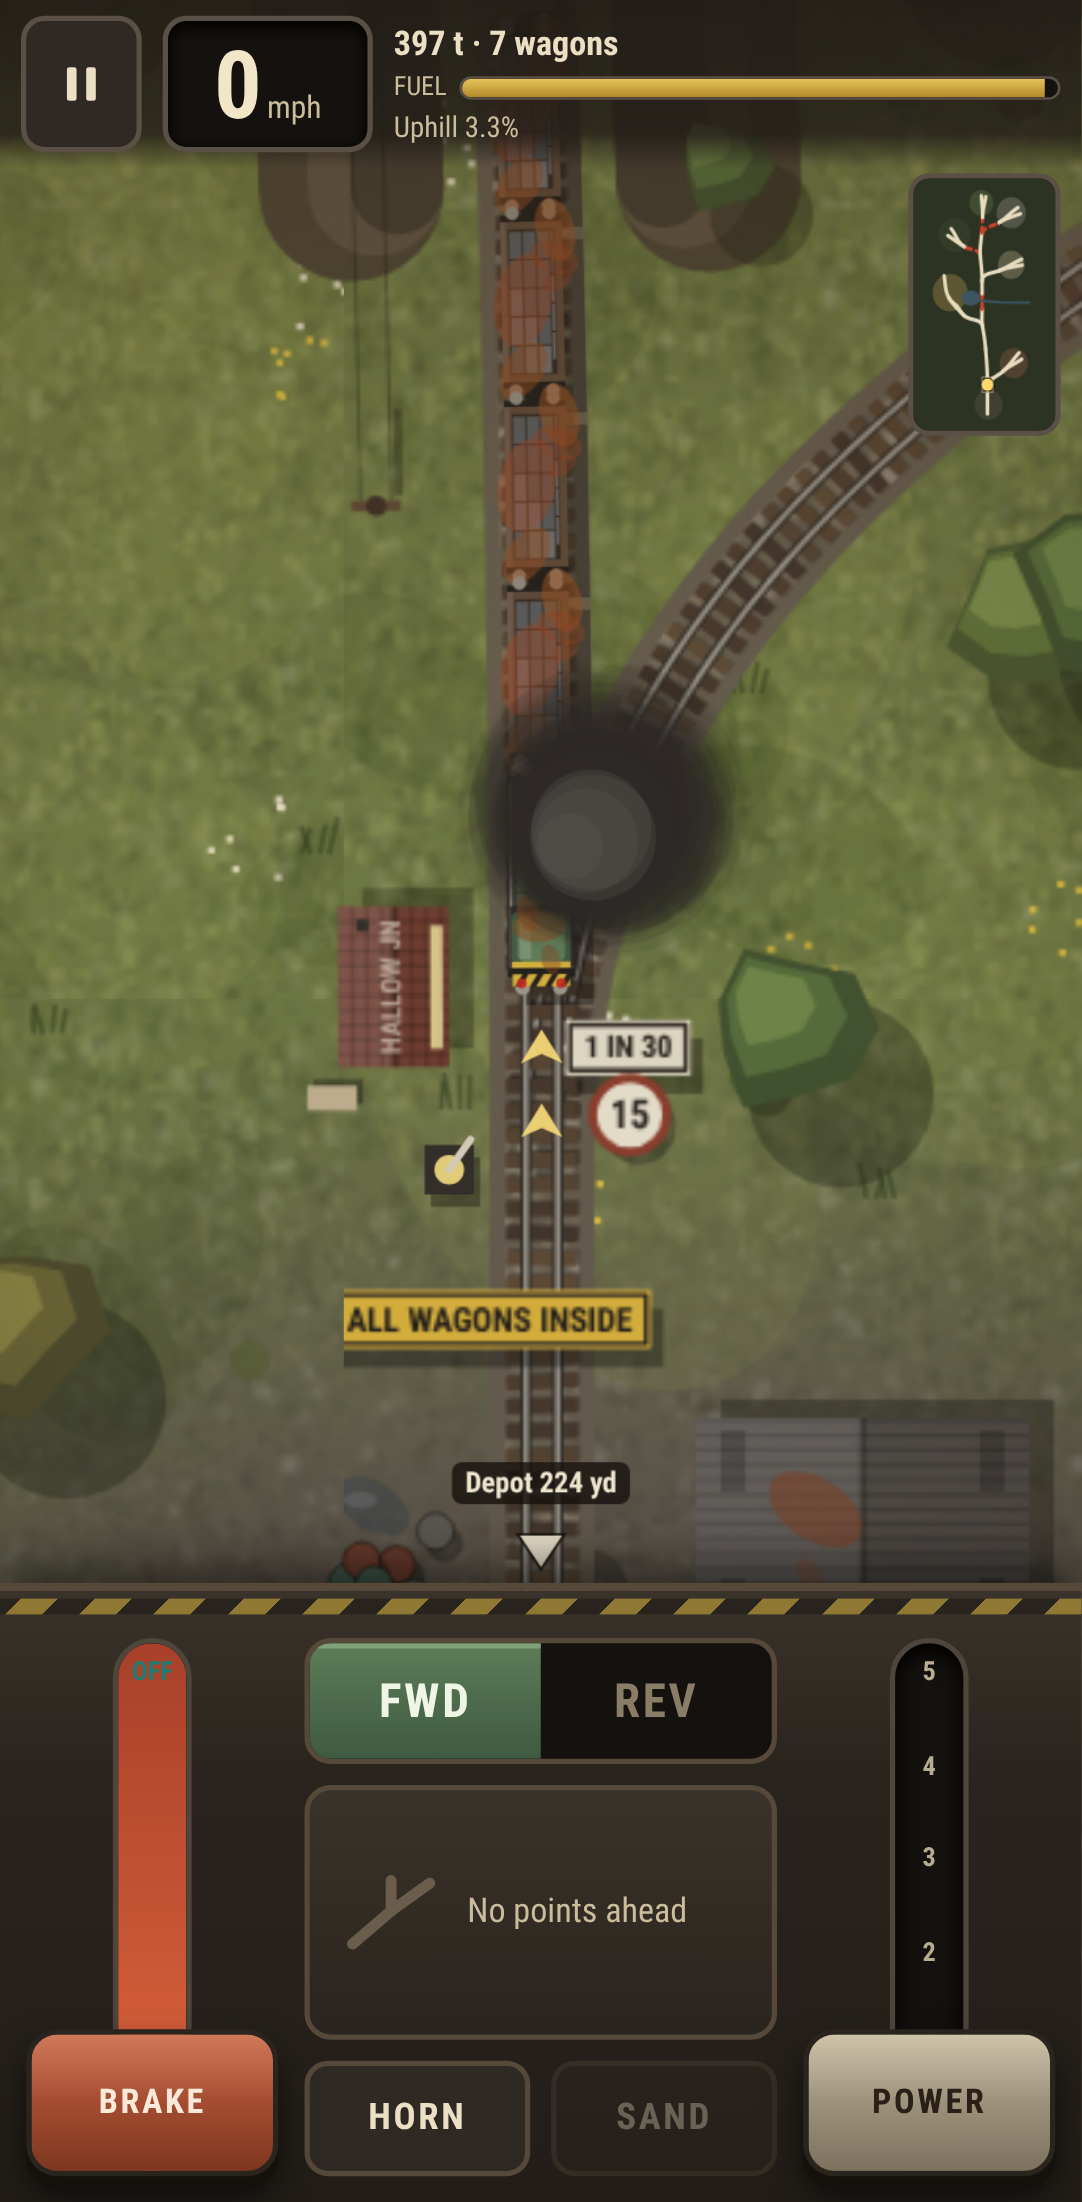
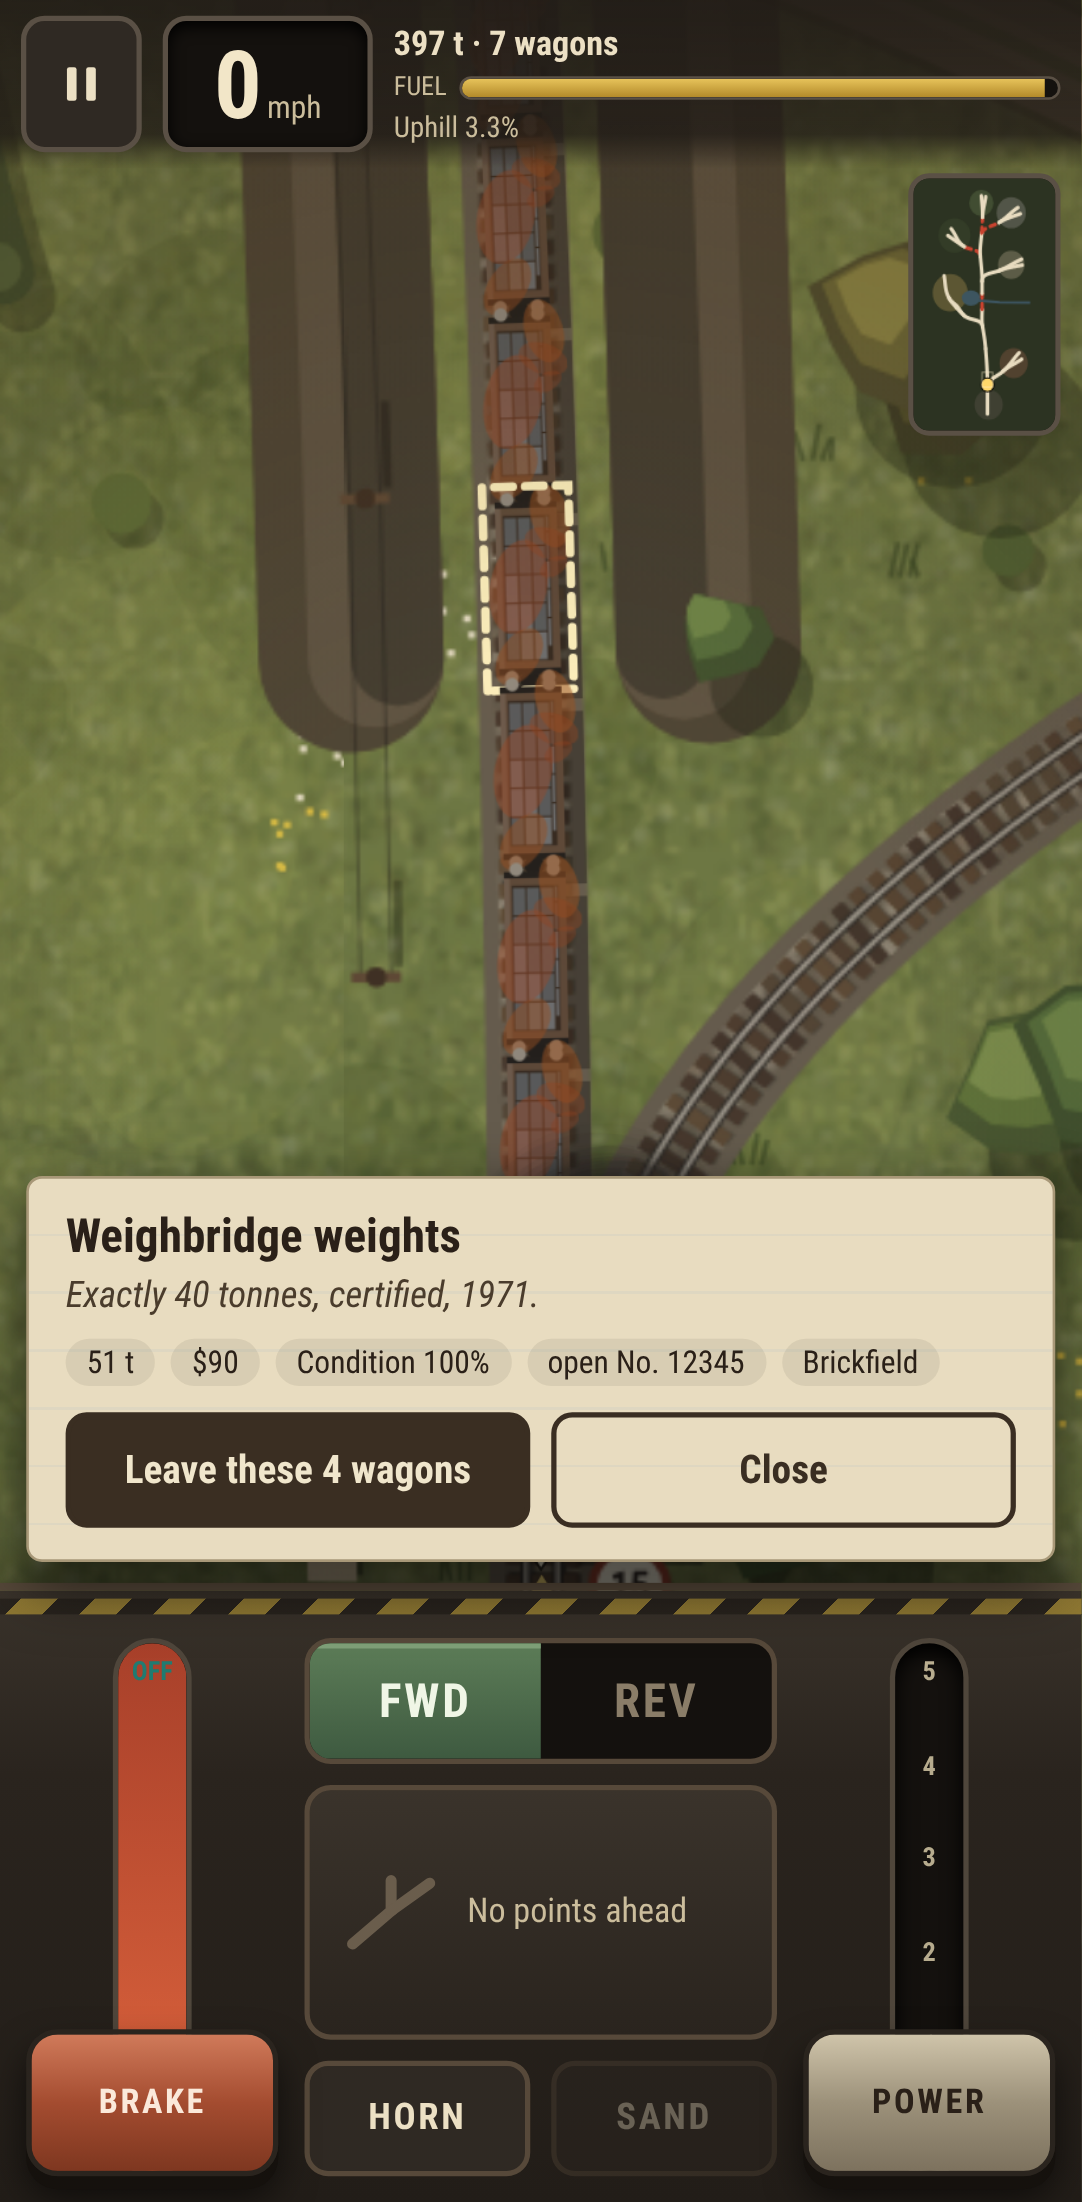
Fix barrier radio crash, resilient loop, tapel swipe, bank test redesign, art tweaks

diff --git a/js/game.js b/js/game.js
@@ -101,7 +101,7 @@ function events(){while(S.ev.length){const e=S.ev.shift();
     if(GAME.sel)showCard(GAME.sel,S.train);}
   else if(e.type==='bump'){AU.play('bump',e.hard);if(e.hard){buzz(80);RD.cam.shake=5;toast('Hit the buffers','bad');}else if(e.soft)buzz(15);}
   else if(e.type==='crash'){AU.play('crash');buzz([100,50,200]);RD.cam.shake=12;SV.D.stats.derails++;later(1.2,()=>endShift());}
-  else if(e.type==='bar'){if(!GAME.flags['bar'+e.key]){GAME.flags['bar'+e.key]=1;radio(DATA.RADIO.bar[e.key]);}}
+  else if(e.type==='bar'){if(e.key&&DATA.RADIO.bar[e.key]&&!GAME.flags['bar'+e.key]){GAME.flags['bar'+e.key]=1;radio(DATA.RADIO.bar[e.key]);}}
   else if(e.type==='radio'){const l=DATA.RADIO[e.k];radio(Array.isArray(l)?l[(Math.random()*l.length)|0]:l);}
   else if(e.type==='area'){const L=DATA.LOC[e.a];if(L&&e.a!=='depot'){banner(L.name.toUpperCase(),'');const k='area_'+e.a;if(!SV.D[k]){SV.D[k]=1;SV.save();later(1,()=>radio(DATA.RADIO.area[e.a]));}}
     if(e.a==='viaduct'&&!GAME.areaSeen.has('v')){GAME.areaSeen.add('v');}}
@@ -122,7 +122,7 @@ function hud(dt){hudT+=dt;if(hudT<.08)return;hudT=0;const v=Math.abs(S.train.v);
   if(S.loco.slip>.3)st='Wheelslip! Ease the power';sx.textContent=st;sx.classList.toggle('danger',!!(m&&m.danger)||S.loco.slip>.3);
   // points
   const nx=SIM.nextSwitch();GAME.nextSw=nx;const bp=$('bPoints');
-  if(nx){const n=TK.N[nx.id],sw=n.p.length===2?n.p:n.m;const label=routeLabel(nx.id,sw[n.sw],sw);$('pDist').textContent='Points in '+Math.round(nx.at*YD)+' yd';$('pSet').textContent='Set: '+label;
+  if(nx){const n=TK.N[nx.id],sw=n.p.length===2?n.p:n.m;const label=routeLabel(nx.id,sw[n.sw],sw);$('pDist').textContent='Points in '+Math.round(nx.at*YD)+' yd';$('pSet').textContent='Set: '+label;$('pSet').style.fontSize=label.length>9?'14px':'';
     const busy=TN.occupied(nx.id);bp.classList.toggle('busy',busy);bp.classList.toggle('live',nx.at<260&&!busy);const left=isLeft(nx.id,sw[n.sw],sw);$('pA').classList.toggle('on',left);$('pB').classList.toggle('on',!left);}
   else{$('pDist').textContent='No points ahead';$('pSet').textContent='';bp.classList.remove('live','busy');$('pA').classList.remove('on');$('pB').classList.remove('on');}
   $('bSand').textContent=S.spec.sand?('SAND '+S.sand):'SAND';$('bSand').classList.toggle('dis',!S.spec.sand||!S.sand);
@@ -164,13 +164,15 @@ function pause(){if(GAME.state!=='play')return;GAME.state='pause';AU.hornOff();U
 function resume(){if(GAME.state!=='pause')return;UI.show(null);GAME.state='play';last=performance.now();AU.resume();}
 GAME.pause=pause;GAME.resume=resume;
 // ---------- loop
-function loop(now){const dt=Math.min(.1,(now-last)/1000);last=now;
+function loop(now){requestAnimationFrame(loop);const dt=Math.min(.1,(now-last)/1000);last=now;
+  try{tick(dt,now);}catch(err){GAME.errors=(GAME.errors||0)+1;console.error(err);}}
+function tick(dt,now){
   if(GAME.state==='play'){acc+=dt;let n=0;while(acc>=1/60&&n<8){SIM.step(1/60);acc-=1/60;n++;}if(n===8)acc=0;events();notes();tutTick(dt);hud(dt);
     for(let i=timers.length-1;i>=0;i--){timers[i].t-=dt;if(timers[i].t<=0){const f=timers[i].f;timers.splice(i,1);f();}}
     if(radioT>0){radioT-=dt;if(radioT<=0)$('radio').classList.add('hidden');}
     RD.follow(dt);miniT+=dt;if(miniT>.12){miniT=0;mini();}}
   else if(GAME.state==='title'||GAME.state==='menu'){titleCam(dt);}
-  AU.update(dt);RD.frame(dt,now/1000);requestAnimationFrame(loop);}
+  AU.update(dt);RD.frame(dt,now/1000);}
 let tcT=0;function titleCam(dt){tcT+=dt;const c=RD.cam;const y=3300-((tcT*14)%2600);c.x+=(760+Math.sin(tcT*.05)*120-c.x)*Math.min(1,dt*.5);c.y=y;c.z=1.1;}
 // ---------- boot
 function boot(){SV.load();AU.setOn(!!SV.D.set.snd);AU.setVol(SV.D.set.vol);TK.build(MAP);ART.init();RD.init($('cv'));

diff --git a/js/art.js b/js/art.js
@@ -148,7 +148,7 @@ function drawItem(g,it){
  if(t==='cutting'){const ei=SIM.edgeBy(it.edge[0],it.edge[1]);for(const side of [-1,1]){g.lineCap='round';for(const [w,c] of [[60,'#4a4232'],[44,'#5b5140'],[30,'#3f3a2e']]){g.strokeStyle=c;g.lineWidth=w*.5;g.beginPath();for(let s=it.s0;s<=it.s1;s+=8){const p=along(it.edge[0],it.edge[1],s,side*(14+w*.25));s===it.s0?g.moveTo(p.x,p.y):g.lineTo(p.x,p.y);}g.stroke();}}return;}
  if(t==='hedge'){g.lineCap='round';g.strokeStyle='rgba(0,0,0,.25)';g.lineWidth=11;g.beginPath();it.pts.forEach((p,i)=>i?g.lineTo(p[0]+3,p[1]+4):g.moveTo(p[0]+3,p[1]+4));g.stroke();g.strokeStyle='#3c4a2a';g.lineWidth=10;g.beginPath();it.pts.forEach((p,i)=>i?g.lineTo(p[0],p[1]):g.moveTo(p[0],p[1]));g.stroke();
    g.fillStyle='#4f5f36';for(const p of it.pts){g.beginPath();g.arc(p[0]-1,p[1]-1,4,0,7);g.fill();}return;}
- if(t==='tree'){const r=it.r;g.fillStyle='rgba(20,25,15,.35)';g.beginPath();g.arc(it.x+r*.35+3,it.y+r*.45+4,r,0,7);g.fill();
+ if(t==='tree'){const r=it.r;g.fillStyle='rgba(20,25,15,.3)';g.beginPath();g.ellipse(it.x+r*.3+2,it.y+r*.35+3,r*.85,r*.75,0,0,7);g.fill();
    if(it.k){ // larch / conifer: star of needles
      g.fillStyle=it.c>.5?'#2d3b24':'#34442a';g.beginPath();for(let i=0;i<14;i++){const a=i/14*6.283,rr=i%2?r*.55:r;g.lineTo(it.x+Math.cos(a)*rr,it.y+Math.sin(a)*rr);}g.fill();
      g.fillStyle='#4d5e36';g.beginPath();for(let i=0;i<10;i++){const a=i/10*6.283+.3,rr=i%2?r*.3:r*.62;g.lineTo(it.x-1+Math.cos(a)*rr,it.y-1+Math.sin(a)*rr);}g.fill();

diff --git a/js/sim.js b/js/sim.js
@@ -85,7 +85,7 @@ function step(dt){
       else{if(imp>C.BUMP){S.bumped++;for(const c of carsOn())damage(c,(imp-C.BUMP)*.012*(1+c.fr*2),'buffers');emit('bump',{imp,hard:1});}
         else emit('bump',{imp,hard:0,soft:imp>2});
         T.v=-nv*.12;if(Math.abs(T.v)<1)T.v=0;
-        if(r.hit.type==='bar'){const e=TK.E[TN.end(T,nv>0?0:1).e];emit('bar',{key:e.barKey});}}
+        if(r.hit.type==='bar'){const e=TK.E[TN.end(T,nv>0?0:1).e];const b=e.bars.find(b=>!b.open);emit('bar',{key:b?b.key:''});}}
     }
   }
   const V=Math.abs(T.v);S.maxV=Math.max(S.maxV,V);

diff --git a/tests/test_mechanics.py b/tests/test_mechanics.py
@@ -49,30 +49,34 @@ async def main():
     await dr.set_brk(0);await dr.set_thr(5);await pg.wait_for_timeout(500)
     await tc.tapel('#bSand');await pg.wait_for_timeout(700)
     t.chk('SAND gives grip: no slip at notch 5 while sanding, one dose used',await E("SIM.S.sandT>0&&SIM.S.loco.slip<.3&&SIM.S.sand===2"),await E("[SIM.S.sandT,SIM.S.loco.slip,SIM.S.sand]"))
-    # ---- banks: a heavy train stalls on Kesh Bank, a light one climbs; leaving wagons recovers
-    await setup(pg,'J1','K1',30,(WT,7))
-    await dr.set_brk(0);await dr.set_thr(4);await pg.wait_for_timeout(16000)
-    x=await st(pg);
-    t.chk('7 x 51 t wagons stall on the 1-in-30 bank (stuck or rolling back)',x['V']<4 or x['v']>0,x['v'],x['e'])
+    # ---- banks: a heavy train stalls pulling up Kesh Bank, a light one climbs; leaving wagons recovers
+    # loco near the top of the bank facing downhill, 7 heavy wagons below it; reverse to haul them up
+    await setup(pg,'K1','J1',70,(WT,7))
+    K1="(()=>{const n=TK.N['K1'],L=SIM.S.loco;return Math.hypot(n.x-L.x,n.y-L.y)})()"
+    d0=await E(K1)
+    await dr.rev(-1);await dr.set_brk(0);await dr.set_thr(4);await pg.wait_for_timeout(14000)
+    x=await st(pg);d1=await E(K1)
+    t.chk('7 x 51 t wagons stall on the 1-in-30 bank (no headway uphill)',d1>d0-15,[d0,d1],x['v'])
     t.chk('Dot warns about the stall',await E("!!SIM.S.flags.stall||!!SIM.S.flags.roll"))
     await dr.stop();await dr.set_thr(0)
-    # leave 4 wagons: tap the 4th wagon from the loco, then the Leave button on its card
+    # leave the 4 lowest wagons: tap the 4th wagon from the loco, then Leave on its card
     q="(()=>{const T=SIM.S.train,li=T.veh.indexOf(SIM.S.loco);const v=T.veh[li-4];return RD.toScreen(v.x,v.y)})()"
-    pt=await E(q);top=await E("RD.view.top")
-    if pt[1]<top+60:  # off the top of the view: drag the map down to bring it into sight, as a player would
-      await tc.drag((200,top+60),(200,min(top+60+(top+160-pt[1]),560)),steps=12);await pg.wait_for_timeout(200);pt=await E(q)
+    pt=await E(q);top=await E("RD.view.top");bot=await E("innerHeight-RD.view.bot")
+    if pt[1]<top+60 or pt[1]>bot-60:  # out of the view: drag the map to bring it into sight, as a player would
+      cy=(top+bot)/2;await tc.drag((200,cy),(200,cy+(cy-pt[1])),steps=12);await pg.wait_for_timeout(200);pt=await E(q)
     await tc.tap(pt);await pg.wait_for_timeout(250)
-    t.chk('tapping a wagon opens its card',await pg.is_visible('#card') and await pg.is_visible('#cbLeave'),await pg.text_content('#cardName'))
+    t.chk('tapping a wagon opens its card',await pg.is_visible('#card') and await pg.is_visible('#cbLeave'),await pg.text_content('#cardName'),pt)
     await pg.screenshot(path=str(SHOTS/'wagon_card.png'))
     await tc.tapel('#cbLeave');await pg.wait_for_timeout(200)
     t.chk('Leave splits the train: 3 wagons stay coupled, 4 left on the bank',await E("SIM.carsOn().length")==3 and await E("TN.cons.some(c=>c!==SIM.S.train&&c.veh.length===4)"))
     await dr.set_brk(0);await dr.set_thr(4)
-    ok=False
+    ok=False;top_e=await E("SIM.edgeBy('K1','J2')")
     for i in range(240):
       x=await st(pg)
-      if x['e']==await E("SIM.edgeBy('K1','J2')"):ok=True;break
+      if x['e']==top_e:ok=True;break
       await pg.wait_for_timeout(250)
     t.chk('lighter train climbs the bank to the top',ok,x['e'],x['V'])
+    await dr.stop()
     # ---- coupling speed
     lot="[{loc:'brick',slot:['J1','DB',110],cars:[FIX.cargo('Chimney pots')]}]"
     await setup(pg,'DB','J1',30,None,lots=lot)

diff --git a/tests/util.py b/tests/util.py
@@ -40,7 +40,12 @@ class Touch:
     r=await s.pg.evaluate(f"(()=>{{const r=document.querySelector('{sel}').getBoundingClientRect();return [r.x+r.width/2,r.y+r.height/2,r.width,r.height]}})()")
     return r
   async def tapel(s,sel):
-    c=await s.center(sel);await s.tap((c[0],c[1]));await s.pg.wait_for_timeout(60)
+    c=await s.center(sel);H=await s.pg.evaluate("innerHeight")
+    for i in range(4):  # off screen in a scrolling list: swipe it into view with a finger, like a player
+      if c[1]-c[3]/2>=0 and c[1]+c[3]/2<=H:break
+      dy=max(-300,min(300,(H/2)-c[1]));x0=c[0]
+      await s.drag((x0,H/2),(x0,H/2+dy),steps=10);await s.pg.wait_for_timeout(350);c=await s.center(sel)
+    await s.tap((c[0],c[1]));await s.pg.wait_for_timeout(60)
   # move a lever with a real finger: grab the handle, slide to the spot for value v (0..1)
   async def lever(s,lid,v):
     g=await s.pg.evaluate(f"""(()=>{{const el=document.getElementById('{lid}'),h=el.querySelector('.handle');const r=el.getBoundingClientRect(),hr=h.getBoundingClientRect();
